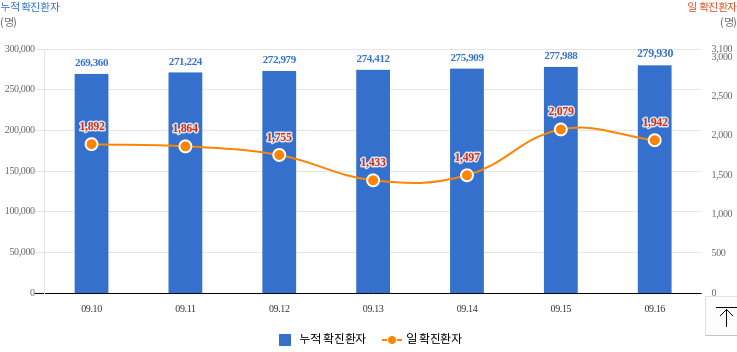
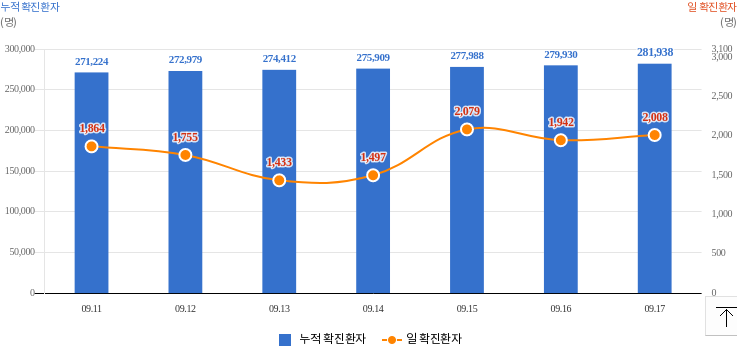
Run crawler and update current data

diff --git a/data.js b/data.js
@@ -7,7 +7,7 @@ var 검사중 = '1,390';
 var 검사결과 = '429,479';
 var 자가격리자 = '229';
 var 거리두기단계 = '사회적 거리두기  3단계 시행 : 2021.9.6.(월) 0시 ~ 10.3.(일) 24시';
-var 국내발생 = '1,921';
-var 해외발생 = '22';
-var 합계 = '1943';
+var 국내발생 = '1,973';
+var 해외발생 = '35';
+var 합계 = '2008';
 var data = [];
